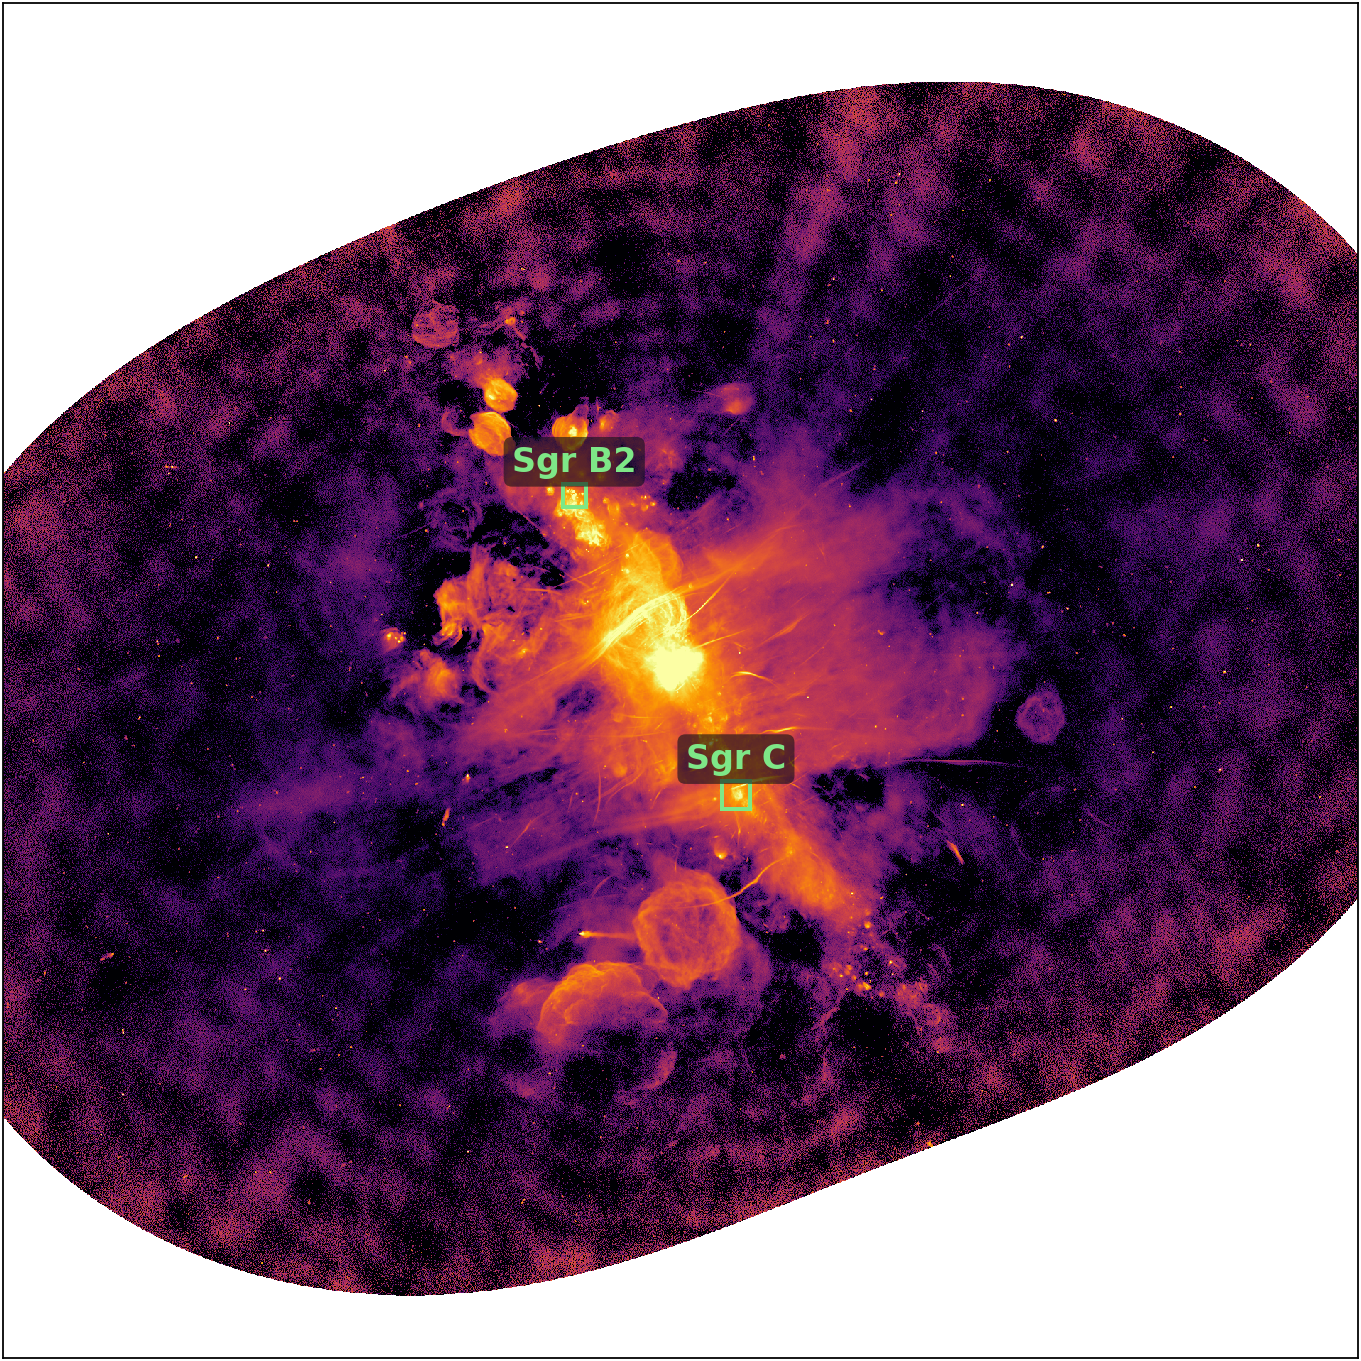
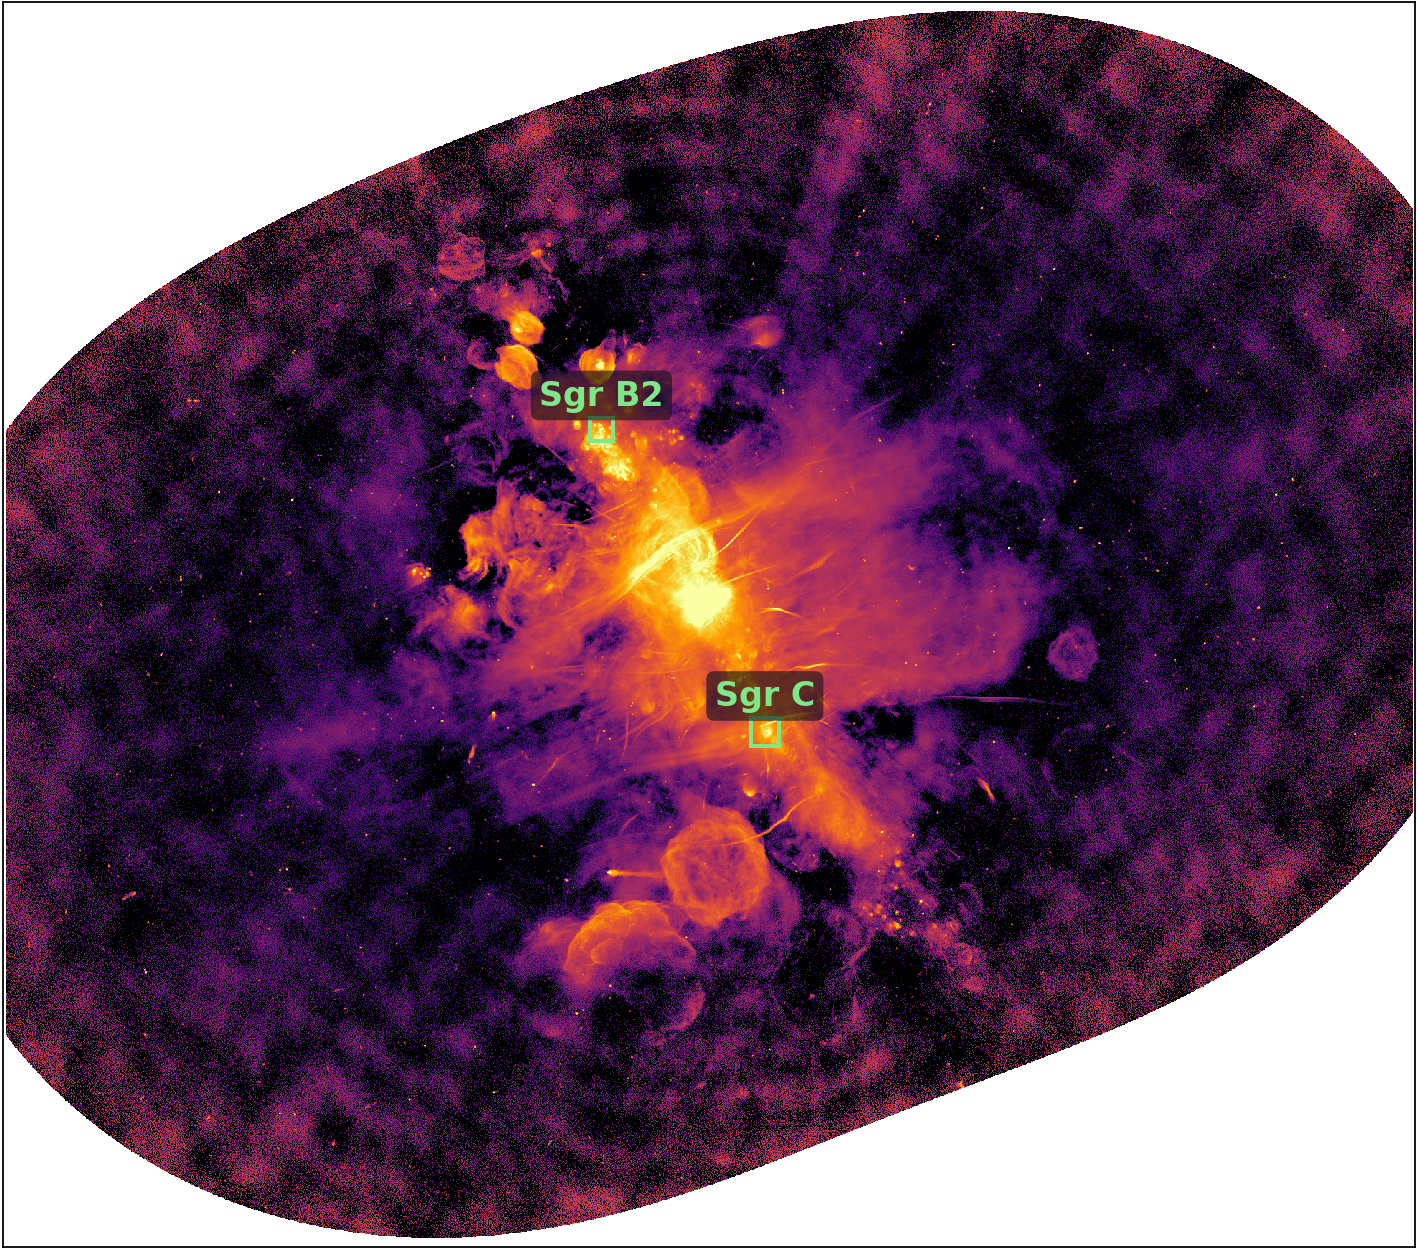
talk(sgr-a-complex-uhf): sharpen open question 2, generalise the alpha callout
Question 2 now asks whether alpha steepens from the base of the bubbles
outwards, as synchrotron ageing requires, replacing "where the energetics are
set" -- which asserted something the audience could not evaluate. The new
wording states a testable prediction, is the one UHF is best placed to answer,
and is the measurement a spatially varying resolution would fake, so it joins
into the resolution section instead of sitting beside it.

The homogenisation callout drops the formula and the two numbers. Slide says
the consequence, speaker supplies the magnitude.

The overview slide loses its heading and the figure takes the full frame; a
new `.plain-figure` class hides the empty h2, which otherwise reserves its box
and rule. The figure itself is re-cropped from the square `full` region to the
mosaic's measured 5.14 x 4.38 deg footprint, since the empty bands top and
bottom were costing about a third of the displayed size.

Abstract ID 2350 recorded in spec.json -> ID2350_J05_Bester.mp4.

Frames re-extracted: still 83, and only slide-52 changed identity (its heading
went away), so the numbering the narration is keyed to is unaffected.

diff --git a/contributions/sgr-a-complex-uhf/custom.css b/contributions/sgr-a-complex-uhf/custom.css
@@ -60,3 +60,11 @@
 .reveal .slides section.bottom-caption-slide h2 {
   display: none !important;
 }
+
+/* A figure that needs the whole slide. An empty `##` still reserves the
+   heading's box and its rule, which costs ~90px of height and shows as a
+   stripe above the figure. Hiding the heading reclaims both, without the
+   flex/full-bleed treatment `.bottom-caption-slide` applies. */
+.reveal .slides section.plain-figure h2 {
+  display: none;
+}

diff --git a/_video/sgr-a-complex-uhf/script/narration.md b/_video/sgr-a-complex-uhf/script/narration.md
@@ -22,7 +22,10 @@ fine on the page often does not survive being spoken.
 
 Hello. I'm Landman Bester, from SARAO and Rhodes University. This talk is about high-fidelity
 imaging of the Galactic Centre at UHF band — and about the one number that quietly decides
-whether you can believe a spectral index.
+whether you can believe a spectral index. I'll start with a disclaimer - I am an algorithm
+developer more than an astronomer. What I'm about to present was born out of a curiosity about
+how better algorithms, imaging algorithms in particular, can improve the science we derive
+from the data we have. 
 
 ## slide-02 — Cold open, image only (6s)
 
@@ -72,12 +75,11 @@ degrees.
 
 ## slide-12 — imaged jointly (10s)
 
-The full band, imaged jointly with `pfb-imaging` under a sparsity-promoting prior — SARA.
+We image the full band jointly with `pfb-imaging`, under a sparsity-promoting prior — SARA — with an additional correlation along the frequency axis imposed. Please come see my J09 talk later today for more about the algorithmic details. 
 
 ## slide-13 — restored resolution (10s)
 
-Restored to eight and a half by seven point eight arcseconds, homogenised across the band. Hold
-on to that word "homogenised" — most of this talk is about it.
+I'll mainly show restored images with resolution homogenised across the band. Hold on to that word "homogenised" — most of this talk is about it.
 
 ## slide-14 — the beam varies (12s)
 
@@ -86,37 +88,37 @@ nearly a factor of two across the band.
 
 ## slide-15 — usually nuisances (8s)
 
-Both are normally treated as calibration nuisances. They are the whole story for what follows.
+Both are normally treated as nuisances that can be corrected for during image post-processing. They are a big part of the story that follows.
 
 ## slide-16 — bright and saturating (9s)
 
-As for the field: Sgr A-star, Sgr A East, the Radio Arc — bright, compact, and saturating.
+This field is one of the toughest there is. It hosts Sgr A-star, Sgr A East, the Radio Arc, among others.
 
 ## slide-17 — filaments (8s)
 
-Filamentary structure on every scale from arcseconds to degrees.
+It contains filamentary structure on every scale from arcseconds to degrees.
 
 ## slide-18 — diffuse emission (8s)
 
 Genuinely diffuse emission underneath all of it.
+Which quietly drops below the noise at the top end of the band.
 
 ## slide-19 — dynamic range (9s)
 
-And dynamic range spanning several orders of magnitude across a single field.
+Add dynamic range spanning several orders of magnitude across a single field...
 
 ## slide-20 — point-source prior (10s)
 
-Which is to say a point-source prior is a poor description of very nearly everything in this
-image.
+And you have a field for which a point-source prior is a very poor description of nearly everything in it.
 
 ## slide-21 — question 1, filaments (12s)
 
-Three open questions. First: do the non-thermal filaments share a common spectral index, or is
+I know of at least three open questions. First: do the non-thermal filaments share a common spectral index, or is
 that population heterogeneous?
 
 ## slide-22 — question 2, bubble base (11s)
 
-Second: what is the spectrum at the base of the bubbles, where the energetics are actually set?
+Second: Does $\alpha$ steepen from the base of the bubbles outwards, as synchrotron ageing requires? Spoiler alert, the data are not yet conclusive about this.
 
 ## slide-23 — question 3, compact sources (14s)
 
@@ -127,26 +129,26 @@ population of millisecond pulsars.
 ## slide-24 — all spectral index questions (10s)
 
 All three are spectral-index questions. So everything that follows is about whether we can
-measure a spectral index here that we are willing to believe.
+measure a spectral index here that we are willing to believe. (Another spoiler alert).
 
 ## slide-25 — Section: mosaicking is a modelling choice (5s)
 
-Start with how the mosaic gets made.
+Let's start with how the mosaic gets made.
 
 ## slide-26 — two ways (18s)
 
-There are two ways. In image space you deconvolve each pointing independently, primary-beam
-correct, and take a weighted average. Jointly — or on the fly — the beam sits inside the
-measurement operator, and you do one deconvolution over all the data.
+There are two ways to build a mosaic.
+The usual way is to deconvolve each pointing independently, primary-beam
+correct, and use a weighted average to stitch the images together. Or you can do it jointly, in visibilty space, by incorporating the beam into the
+measurement operator. That way it's one deconvolution over all the data simultaneously.
 
 ## slide-27 — different problems (9s)
 
-That is not a workflow preference. The two are solving genuinely different problems.
+That is not a workflow preference. The two are solving genuinely different problems. The latter is harder in many ways, but I'm going to try and convince you that it is worth it.
 
 ## slide-28 — rephasing (14s)
 
-And there is a detail here that is easy to miss. To deconvolve every pointing together, the data
-first have to be rephased to a common phase centre. The primary beam does not come along.
+There is a detail worth pointing out here. To jointly deconvolve all pointings, we need to rephase to a common phase centre. The primary beam does not come along.
 
 ## slide-29 — beam follows the dish (9s)
 
@@ -182,26 +184,23 @@ More samples per sky position — not merely more sky.
 
 ## slide-36 — four times the weight (10s)
 
-At the field centre that is about four times the imaging weight, out of the same observation.
+At the field centre that is roughly three times the imaging weight, out of the same observation.
 
 ## slide-37 — PSF sidelobes (22s)
 
 Here is what it does to the point spread function. Single pointing in green, joint in blue; RMS
-sidelobe level solid, worst case dotted. The main lobes differ by four per cent, so on an image
-they look identical. The sidelobes do not. Sidelobe RMS is down by a factor of four at
-arcminute scales, and about one point seven out to three degrees.
+sidelobe level as a function of radius drawn with the solid lines. The main lobes only differ by about four per cent, the sidelobes by a lot more than that. Sidelobe RMS reduces by up to a factor of four at
+arcminute scales, dropping to just below two out to three degrees. This makes the problem much better conditioned.
 
 ## slide-38 — mosaic comparison (16s)
 
-And in the image. Same sky, same colour scale. On the left, each pointing deconvolved
-independently with multi-scale CLEAN and then averaged — you can still see the individual
-pointing footprints in the product. On the right, one SARA deconvolution over all three.
+What does that do for imaging? Here's the same data images in two different ways. It's the same sky and colour scale. On the left, each pointing deconvolved
+independently with multi-scale CLEAN and then stitched in image space. On the right, one SARA deconvolution over all three. I hope we can agree that the latter is the more faithful of the two.
 
 ## slide-39 — CLEAN can't forward model (18s)
 
-One honest note on that comparison: it changes the deconvolution algorithm as well as the
-mosaicking scheme. That is not entirely accidental. CLEAN does not minimise a stated objective,
-so there is no natural place to put a beam model inside it.
+One honest note on that comparison: both the deconvolution algorithm and the
+mosaicking scheme is different in this comparison. That is not entirely accidental. CLEAN does not minimise a stated objective function, and that makes it harder to incorporate the beam model.
 
 ## slide-40 — Section: resolution is the hidden variable (6s)
 
@@ -209,13 +208,12 @@ Now the part that actually decides the science.
 
 ## slide-41 — alpha is a ratio (14s)
 
-A spectral index is a ratio across the band. Which means the two images going into it have to be
-reporting the same thing — and by default they are not.
+A spectral index is a ratio across the band. Which means the images going into it have to report the same thing — and by default they are not.
 
 ## slide-42 — common beam (10s)
 
 Sensitivity and uv-coverage both change with frequency, so every sub-band has its own
-resolution. You have to restore them all to a common beam.
+resolution. You have to homogenize the resolution across frequency before comparing bands and physics forces us to degrade the resolution to that of the lowest sub-band.
 
 ## slide-43 — CLEAN's easy case (10s)
 
@@ -224,18 +222,16 @@ For a CLEAN model that is just a convolution, because the model is a set of delt
 ## slide-44 — sparsity is harder (13s)
 
 For a sparsity prior it is not, because that model has its own intrinsic resolution — which has
-to be estimated first, and then corrected for.
+to be estimated before resolution can be homogenized.
 
 ## slide-45 — the cost of getting it wrong (19s)
 
-And get this wrong by a constant factor and every spectral index shifts. For our two bands, a
-beam-area ratio of one point six three moves alpha by one point zero three. That is the
-difference between an impossible number and an ordinary one.
+Get this wrong and the derived spectral index is not reliable. 
 
 ## slide-46 — CLEAN assumes zero (12s)
 
 Let me be precise about the model resolution, because this is the methodological point. A CLEAN
-model is delta functions: intrinsic resolution zero, by assumption. A sparsity prior's model is
+model consisting of delta functions has zero intrinsic resolution by assumption. A sparsity prior's model does
 not.
 
 ## slide-47 — non-zero (10s)
